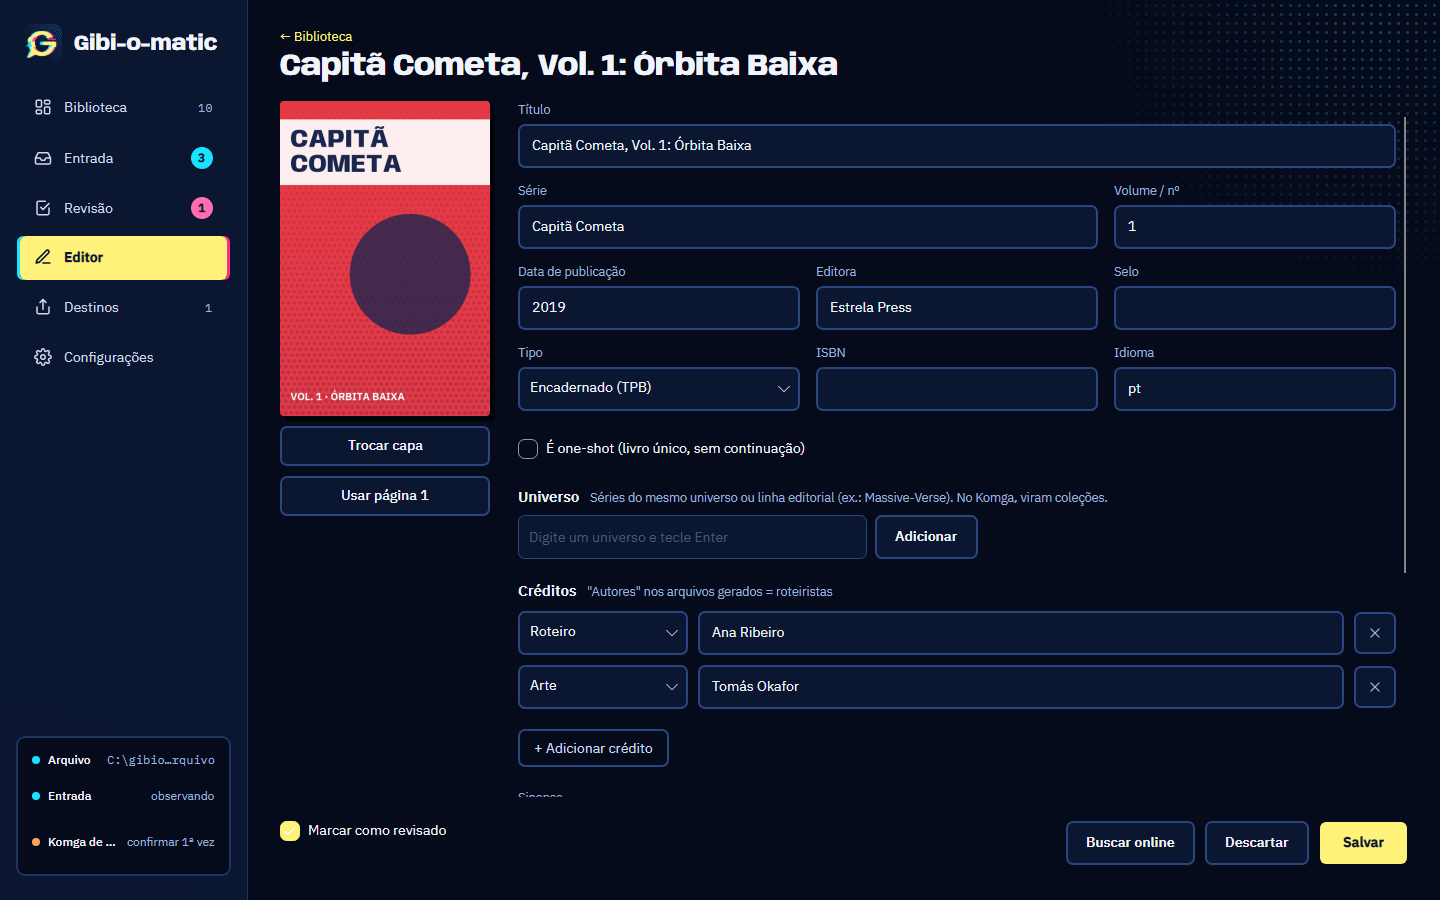
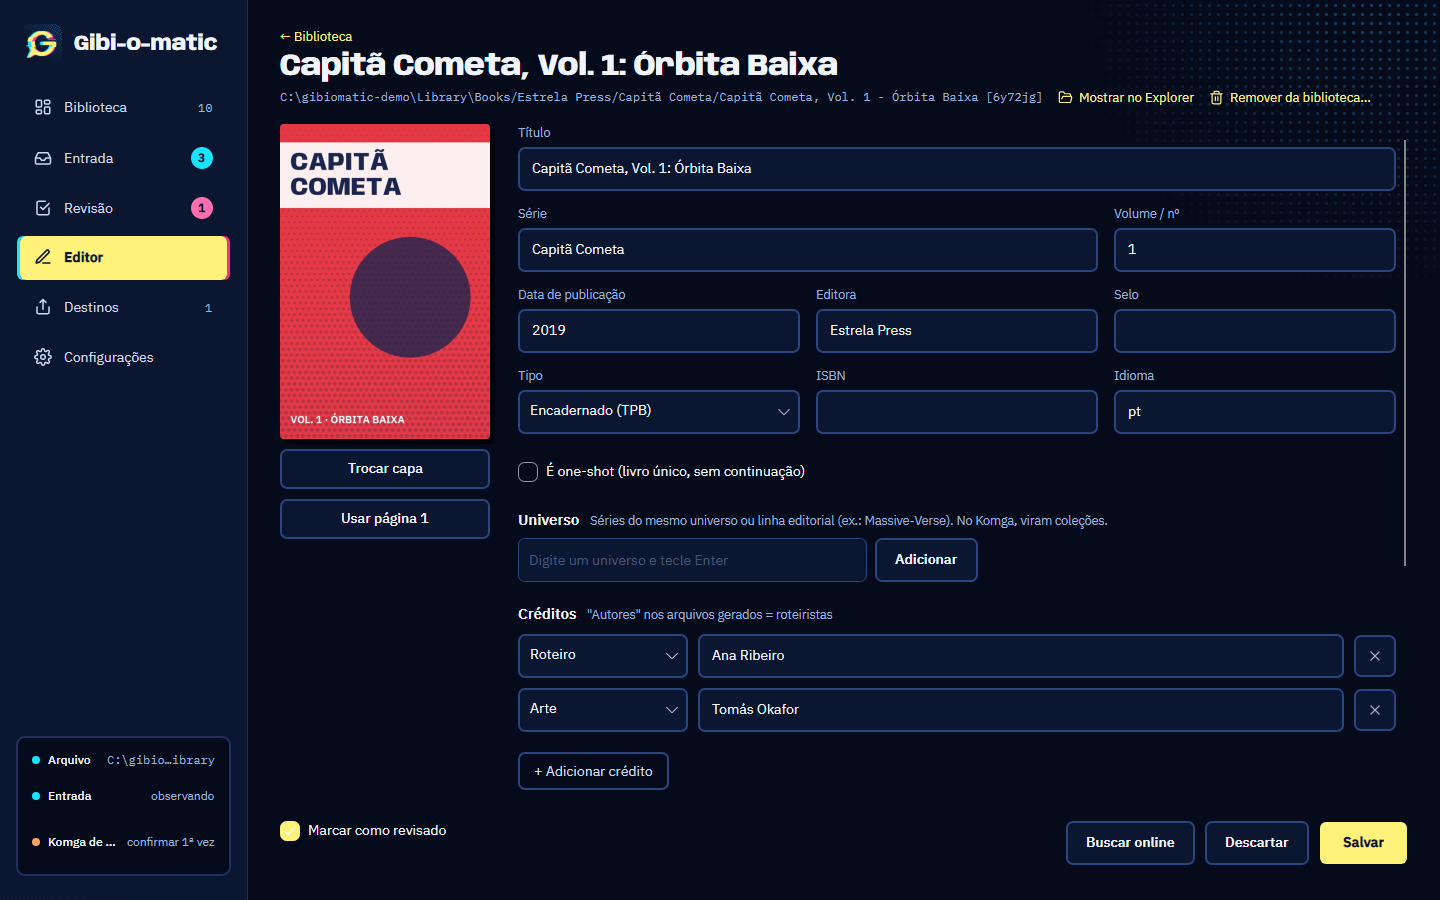
Screenshots: biblioteca fictícia também em inglês
Rodando em "en", o tools/Screenshots usa títulos, editoras e resumos em
inglês e grava as capturas -en, para o README em inglês. As pastas da
demonstração passam a ter nomes em inglês nas duas línguas.

diff --git a/tools/Screenshots/Program.cs b/tools/Screenshots/Program.cs
@@ -32,12 +32,16 @@ internal static class Program
 
     private static readonly string Repository = FindRepository();
 
+    /// <summary>Whether the screens are in English: the fictional library then has English titles too.</summary>
+    internal static bool English { get; private set; }
+
     public static int Main(string[] args)
     {
         var output = Path.GetFullPath(args.Length > 0 ? args[0] : Path.Combine(Repository, "docs", "images"));
         var culture = CultureInfo.GetCultureInfo(args.Length > 1 ? args[1] : "pt-BR");
         CultureInfo.DefaultThreadCurrentCulture = CultureInfo.DefaultThreadCurrentUICulture = culture;
         CultureInfo.CurrentCulture = CultureInfo.CurrentUICulture = culture;
+        English = culture.TwoLetterISOLanguageName == "en";
         Directory.CreateDirectory(output);
 
         // The paths show on the screens: a neutral folder, not one under the user's profile.
@@ -115,20 +119,20 @@ internal static class Program
     {
         var settings = services.GetRequiredService<ISettingsService>();
         await settings.LoadAsync();
-        var inbox = Directory.CreateDirectory(Path.Combine(temp, "Entrada")).FullName;
+        var inbox = Directory.CreateDirectory(Path.Combine(temp, "Inbox")).FullName;
         var komga = Directory.CreateDirectory(Path.Combine(temp, "Komga")).FullName;
         await settings.SaveAsync(settings.Current with
         {
             InboxPath = inbox,
             Destinations =
             [
-                new DestinationConfig { Id = "komga", Type = "komga", Name = "Komga de casa", Folder = komga, IncludeUnreviewed = false },
+                new DestinationConfig { Id = "komga", Type = "komga", Name = English ? "Home Komga" : "Komga de casa", Folder = komga, IncludeUnreviewed = false },
             ],
         });
 
         // The library: books arrive through the inbox and are identified like in the app.
         var session = services.GetRequiredService<LibrarySession>();
-        await session.CreateAsync(Path.Combine(temp, "Arquivo"));
+        await session.CreateAsync(Path.Combine(temp, "Library"));
         var downloads = Path.Combine(temp, "Downloads");
         var files = FictionalBooks.All.Select(b => b.Write(downloads)).ToList();
         await session.Queue!.AddAsync(files);
@@ -139,12 +143,12 @@ internal static class Program
         await session.Identification!.WaitUntilIdleAsync();
 
         // What waits in the inbox: a new book, a better format of one in the library, a file already there.
-        var arriving = Path.Combine(temp, "Novos");
+        var arriving = Path.Combine(temp, "New");
         await session.Queue.AddAsync(
         [
             FictionalBooks.Arriving.Write(arriving),
             FictionalBooks.All[0].Write(arriving, "pdf"),
-            File.Exists(files[3]) ? Copy(files[3], Path.Combine(arriving, "noite_de_neon_v1.cbz")) : files[3],
+            File.Exists(files[3]) ? Copy(files[3], Path.Combine(arriving, Path.GetFileNameWithoutExtension(files[3]) + "_v1.cbz")) : files[3],
         ]);
         await session.Queue.WaitUntilIdleAsync();
 
@@ -178,7 +182,7 @@ internal static class Program
         await ShotAsync(NavPage.Library, "biblioteca-claro", theme: ThemeVariant.Light);
         await ShotAsync(NavPage.Inbox, "entrada");
         await ShotAsync(NavPage.Review, "revisao");
-        var editing = (await session.Index!.GetBooksAsync()).First(b => b.Metadata.Title.StartsWith("Capitã Cometa", StringComparison.Ordinal));
+        var editing = (await session.Index!.GetBooksAsync()).First(b => b.Metadata.Title.StartsWith(FictionalBooks.All[0].Series!, StringComparison.Ordinal));
         await ShotAsync(NavPage.Editor, "editor", [editing.Metadata.Id]);
         await ShotAsync(NavPage.Destinations, "destinos");
         window.Close();
@@ -278,7 +282,7 @@ internal sealed record FictionalBook(
         Add("Penciller", Artist);
         Add("Publisher", Publisher);
         Add("Format", Format);
-        Add("LanguageISO", "pt");
+        Add("LanguageISO", Program.English ? "en" : "pt");
         return sb.Append("</ComicInfo>\n").ToString();
     }
 
@@ -353,7 +357,12 @@ internal static class FictionalBooks
 {
     private static readonly SKColor Navy = new(0x1B, 0x26, 0x4F);
 
-    public static readonly IReadOnlyList<FictionalBook> All =
+    /// <summary>The library in the language of the screens; both lists hold the same books in the same order.</summary>
+    public static IReadOnlyList<FictionalBook> All => Program.English ? English : Portuguese;
+
+    public static FictionalBook Arriving => Program.English ? EnglishArriving : PortugueseArriving;
+
+    private static readonly IReadOnlyList<FictionalBook> Portuguese =
     [
         new("capita_cometa_v1.cbz", "Capitã Cometa", "1", "Capitã Cometa, Vol. 1: Órbita Baixa", 2019, "Ana Ribeiro", "Tomás Okafor", "Estrela Press",
             "CAPITÃ\nCOMETA", "VOL. 1 · ÓRBITA BAIXA", new SKColor(0xE6, 0x39, 0x46), Navy),
@@ -378,9 +387,37 @@ internal static class FictionalBooks
             "OS ÚLTIMOS\nFARÓIS", "VOL. 3", new SKColor(0x45, 0x7B, 0x9D), new SKColor(0xF1, 0xFA, 0xEE), null),
     ];
 
-    public static readonly FictionalBook Arriving =
+    private static readonly FictionalBook PortugueseArriving =
         new("rota_66_graus_v1.cbz", "Rota 66 Graus", "1", "Rota 66 Graus, Vol. 1", 2024, "Paula Freitas", "Ivo Prado", "Selo Rabisco",
             "ROTA 66\nGRAUS", "VOL. 1", new SKColor(0xFF, 0xB7, 0x03), new SKColor(0x02, 0x30, 0x47));
+
+    private static readonly IReadOnlyList<FictionalBook> English =
+    [
+        new("captain_comet_v1.cbz", "Captain Comet", "1", "Captain Comet, Vol. 1: Low Orbit", 2019, "Ana Ribeiro", "Tomás Okafor", "Star Press",
+            "CAPTAIN\nCOMET", "VOL. 1 · LOW ORBIT", new SKColor(0xE6, 0x39, 0x46), Navy),
+        new("captain_comet_v2.cbz", "Captain Comet", "2", "Captain Comet, Vol. 2: Fire Tail", 2020, "Ana Ribeiro", "Tomás Okafor", "Star Press",
+            "CAPTAIN\nCOMET", "VOL. 2 · FIRE TAIL", new SKColor(0xF4, 0xA2, 0x61), Navy),
+        new("captain_comet_v3.cbz", "Captain Comet", "3", "Captain Comet, Vol. 3: Eclipse", 2021, "Ana Ribeiro", "Tomás Okafor", "Star Press",
+            "CAPTAIN\nCOMET", "VOL. 3 · ECLIPSE", new SKColor(0x2A, 0x9D, 0x8F), Navy),
+        new("neon_night.cbz", "Neon Night", "1", "Neon Night, Vol. 1", 2022, "Lia Matsuda", "Lia Matsuda", "High Tide Comics",
+            "NEON\nNIGHT", "VOL. 1", new SKColor(0x7B, 0x2C, 0xBF), new SKColor(0x10, 0xE0, 0xD0)),
+        new("last_lighthouses_v1.cbz", "The Last Lighthouses", "1", "The Last Lighthouses, Vol. 1", 2018, "Bruno Carvalho", "Ines Duarte", "High Tide Comics",
+            "THE LAST\nLIGHTHOUSES", "VOL. 1", new SKColor(0x26, 0x46, 0x53), new SKColor(0xE9, 0xC4, 0x6A)),
+        new("last_lighthouses_v2.cbz", "The Last Lighthouses", "2", "The Last Lighthouses, Vol. 2", 2019, "Bruno Carvalho", "Ines Duarte", "High Tide Comics",
+            "THE LAST\nLIGHTHOUSES", "VOL. 2", new SKColor(0x1D, 0x35, 0x57), new SKColor(0xF1, 0xFA, 0xEE)),
+        new("boogeyman_inc.cbz", "Boogeyman Inc.", "1", "Boogeyman Inc.", 2023, "Rafa Monteiro", "Duda Lima", "Scribble Books",
+            "BOOGEYMAN\nINC.", "A COMPLETE STORY", new SKColor(0x6A, 0x99, 0x4E), new SKColor(0x1A, 0x1A, 0x1A), "One-Shot"),
+        new("iron_garden_v1.cbz", "The Iron Garden", "1", "The Iron Garden, Vol. 1", 2020, "Carla Nunes", "Kenji Arai", "Star Press",
+            "THE IRON\nGARDEN", "VOL. 1", new SKColor(0x58, 0x58, 0x5A), new SKColor(0xF7, 0x7F, 0x00)),
+        new("the_art_of_captain_comet.cbz", null, null, "The Art of Captain Comet", 2022, "Tomás Okafor", "Tomás Okafor", "Star Press",
+            "THE ART OF\nCAPTAIN COMET", "SKETCHES AND COVERS", new SKColor(0xF1, 0xFA, 0xEE), new SKColor(0xE6, 0x39, 0x46), "Artbook"),
+        new("last_lighthouses_v03_digital.cbz", null, null, null, null, null, null, null,
+            "THE LAST\nLIGHTHOUSES", "VOL. 3", new SKColor(0x45, 0x7B, 0x9D), new SKColor(0xF1, 0xFA, 0xEE), null),
+    ];
+
+    private static readonly FictionalBook EnglishArriving =
+        new("heat_wave_v1.cbz", "Heat Wave", "1", "Heat Wave, Vol. 1", 2024, "Paula Freitas", "Ivo Prado", "Scribble Books",
+            "HEAT\nWAVE", "VOL. 1", new SKColor(0xFF, 0xB7, 0x03), new SKColor(0x02, 0x30, 0x47));
 }
 
 /// <summary>Answers like ComicVine would, from the made-up books: safe matches for most, one uncertain.</summary>
@@ -388,9 +425,11 @@ internal sealed class FictionalIdentifier : IBookIdentifier
 {
     public Task<IdentificationResult> IdentifyAsync(BookMetadata book, MetadataSettings settings, string? searchText, CancellationToken ct)
     {
-        IReadOnlyList<MetadataCandidate> candidates = book.Title.Contains("farois v03", StringComparison.OrdinalIgnoreCase)
-            ? [Candidate("Os Últimos Faróis, Vol. 3", "Os Últimos Faróis", "3", 2021, "Bruno Carvalho", "Ines Duarte", 0.78, MatchReason.Title, MatchReason.Number),
-               Candidate("Os Últimos Faróis, Vol. 2", "Os Últimos Faróis", "2", 2019, "Bruno Carvalho", "Ines Duarte", 0.41, MatchReason.Title)]
+        // The book downloaded with no metadata is titled after its file ("... v03 digital").
+        var series = FictionalBooks.All[4].Series!;
+        IReadOnlyList<MetadataCandidate> candidates = book.Title.Contains("v03 digital", StringComparison.OrdinalIgnoreCase)
+            ? [Candidate($"{series}, Vol. 3", series, "3", 2021, "Bruno Carvalho", "Ines Duarte", 0.78, MatchReason.Title, MatchReason.Number),
+               Candidate($"{series}, Vol. 2", series, "2", 2019, "Bruno Carvalho", "Ines Duarte", 0.41, MatchReason.Title)]
             : [Same(book)];
         return Task.FromResult(new IdentificationResult(BookQuery.From(book, searchText), candidates, []));
     }
@@ -411,7 +450,7 @@ internal sealed class FictionalIdentifier : IBookIdentifier
         Date = book.Date,
         Publisher = book.Publisher,
         Credits = book.Credits,
-        Summary = "Uma história inventada para as capturas de tela do Gibi-o-matic.",
+        Summary = Program.English ? "A made-up story for the Gibi-o-matic screenshots." : "Uma história inventada para as capturas de tela do Gibi-o-matic.",
         ComicVineId = "4000-1",
     }, 0.99, [MatchReason.Isbn, MatchReason.SecondSource, MatchReason.Title, MatchReason.Number]);
 
@@ -424,9 +463,9 @@ internal sealed class FictionalIdentifier : IBookIdentifier
         Number = number,
         Kind = BookKind.Tpb,
         Date = new PartialDate(year, 3, null),
-        Publisher = "Maré Alta Comics",
+        Publisher = FictionalBooks.All[4].Publisher,
         Credits = [new Credit(CreditRole.Writer, writer), new Credit(CreditRole.Artist, artist)],
-        Summary = "O farol da ilha apaga, e só a guardiã sabe por quê.",
+        Summary = Program.English ? "The island's lighthouse goes dark, and only its keeper knows why." : "O farol da ilha apaga, e só a guardiã sabe por quê.",
         ComicVineId = "4000-3",
     }, confidence, reasons);
 }
